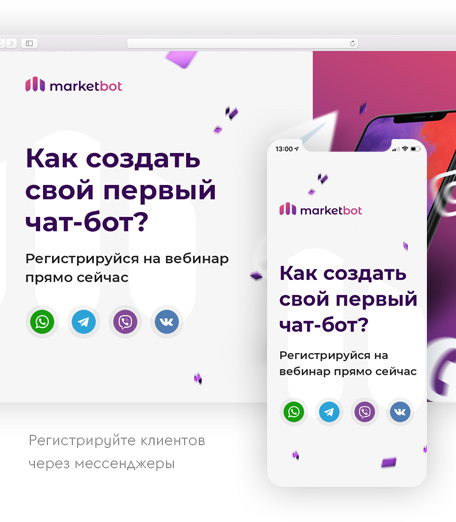
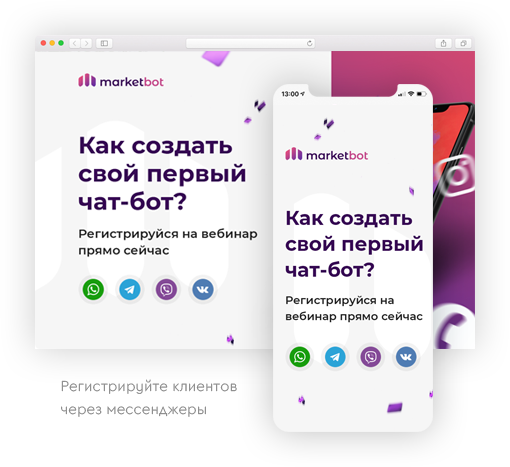
some upds

diff --git a/src/components/Associate.vue b/src/components/Associate.vue
@@ -67,10 +67,11 @@ export default {
         onMouseUpdate(e){
             if(window.innerWidth > 456){
             let x = e.pageX / window.innerWidth * 20
-            document.querySelector(".associate_background_images_1").style.left = (this.associate_background_images_1_x + x).toString() + 'px'
-            document.querySelector(".associate_background_images_2").style.left = (this.associate_background_images_2_x + x).toString() + 'px'
-            document.querySelector(".associate_background_images_3").style.left = (this.associate_background_images_3_x + x).toString() + 'px'
-            document.querySelector(".associate_background_images_4").style.left = (this.associate_background_images_4_x + x).toString() + 'px'
+            let y = e.clientY / window.innerHeight * 20
+            document.querySelector(".associate_background_images_1").style.top = (this.associate_background_images_1_x + y).toString() + 'px'
+            document.querySelector(".associate_background_images_2").style.top = (this.associate_background_images_2_x + y).toString() + 'px'
+            document.querySelector(".associate_background_images_3").style.top = (this.associate_background_images_3_x + y).toString() + 'px'
+            document.querySelector(".associate_background_images_4").style.top = (this.associate_background_images_4_x + y).toString() + 'px'
             document.querySelector(".associate_background_images_5").style.left = (this.associate_background_images_5_x + x).toString() + 'px'
             document.querySelector(".associate_background_images_6").style.left = (this.associate_background_images_6_x + x).toString() + 'px'
             document.querySelector(".associate_background_images_7").style.left = (this.associate_background_images_7_x + x).toString() + 'px'
@@ -87,10 +88,10 @@ export default {
     },
     mounted(){
         document.addEventListener('mousemove', this.onMouseUpdate)
-        this.associate_background_images_1_x = Number.parseInt((window.getComputedStyle(document.querySelector(".associate_background_images_1")).left).substring(0, (window.getComputedStyle(document.querySelector(".associate_background_images_1")).left).length - 2))
-        this.associate_background_images_2_x = Number.parseInt((window.getComputedStyle(document.querySelector(".associate_background_images_2")).left).substring(0, (window.getComputedStyle(document.querySelector(".associate_background_images_2")).left).length - 2))
-        this.associate_background_images_3_x = Number.parseInt((window.getComputedStyle(document.querySelector(".associate_background_images_3")).left).substring(0, (window.getComputedStyle(document.querySelector(".associate_background_images_3")).left).length - 2))
-        this.associate_background_images_4_x = Number.parseInt((window.getComputedStyle(document.querySelector(".associate_background_images_4")).left).substring(0, (window.getComputedStyle(document.querySelector(".associate_background_images_4")).left).length - 2))
+        this.associate_background_images_1_x = Number.parseInt((window.getComputedStyle(document.querySelector(".associate_background_images_1")).top).substring(0, (window.getComputedStyle(document.querySelector(".associate_background_images_1")).top).length - 2))
+        this.associate_background_images_2_x = Number.parseInt((window.getComputedStyle(document.querySelector(".associate_background_images_2")).top).substring(0, (window.getComputedStyle(document.querySelector(".associate_background_images_2")).top).length - 2))
+        this.associate_background_images_3_x = Number.parseInt((window.getComputedStyle(document.querySelector(".associate_background_images_3")).top).substring(0, (window.getComputedStyle(document.querySelector(".associate_background_images_3")).top).length - 2))
+        this.associate_background_images_4_x = Number.parseInt((window.getComputedStyle(document.querySelector(".associate_background_images_4")).top).substring(0, (window.getComputedStyle(document.querySelector(".associate_background_images_4")).top).length - 2))
         this.associate_background_images_5_x = Number.parseInt((window.getComputedStyle(document.querySelector(".associate_background_images_5")).left).substring(0, (window.getComputedStyle(document.querySelector(".associate_background_images_5")).left).length - 2))
         this.associate_background_images_6_x = Number.parseInt((window.getComputedStyle(document.querySelector(".associate_background_images_6")).left).substring(0, (window.getComputedStyle(document.querySelector(".associate_background_images_6")).left).length - 2))
         this.associate_background_images_7_x = Number.parseInt((window.getComputedStyle(document.querySelector(".associate_background_images_7")).left).substring(0, (window.getComputedStyle(document.querySelector(".associate_background_images_7")).left).length - 2))
@@ -307,8 +308,8 @@ export default {
             height: 70vw
             background-color: #f9f9f9
             img
-                width: 86%
-                padding-left: 7%
+                padding-left: 3.5vw
+                width: 93vw
         .associate_background_images
             position: absolute
             width: 100%

diff --git a/src/components/Execute.vue b/src/components/Execute.vue
@@ -56,9 +56,11 @@ export default {
         onMouseUpdate(e){
             if(window.innerWidth > 456){
             let x = e.pageX / window.innerWidth * 20
-            document.querySelector(".execute_background_images_1").style.left = (this.execute_background_images_1_x + x).toString() + 'px'
-            document.querySelector(".execute_background_images_2").style.left = (this.execute_background_images_2_x + x).toString() + 'px'
-            document.querySelector(".execute_background_images_3").style.left = (this.execute_background_images_3_x + x).toString() + 'px'
+            let y = e.clientY / window.innerHeight * 20
+            console.log(y)
+            document.querySelector(".execute_background_images_1").style.top = (this.execute_background_images_1_x + y).toString() + 'px'
+            document.querySelector(".execute_background_images_2").style.top = (this.execute_background_images_2_x + y).toString() + 'px'
+            document.querySelector(".execute_background_images_3").style.top = (this.execute_background_images_3_x + y).toString() + 'px'
             document.querySelector(".execute_background_images_4").style.left = (this.execute_background_images_4_x + x).toString() + 'px'
             document.querySelector(".execute_background_images_5").style.left = (this.execute_background_images_5_x + x).toString() + 'px'
             document.querySelector(".execute_background_images_6").style.left = (this.execute_background_images_6_x + x).toString() + 'px'
@@ -71,9 +73,9 @@ export default {
     },
     mounted(){
         document.addEventListener('mousemove', this.onMouseUpdate)
-        this.execute_background_images_1_x = Number.parseInt((window.getComputedStyle(document.querySelector(".execute_background_images_1")).left).substring(0, (window.getComputedStyle(document.querySelector(".execute_background_images_1")).left).length - 2))
-        this.execute_background_images_2_x = Number.parseInt((window.getComputedStyle(document.querySelector(".execute_background_images_2")).left).substring(0, (window.getComputedStyle(document.querySelector(".execute_background_images_2")).left).length - 2))
-        this.execute_background_images_3_x = Number.parseInt((window.getComputedStyle(document.querySelector(".execute_background_images_3")).left).substring(0, (window.getComputedStyle(document.querySelector(".execute_background_images_3")).left).length - 2))
+        this.execute_background_images_1_x = Number.parseInt((window.getComputedStyle(document.querySelector(".execute_background_images_1")).top).substring(0, (window.getComputedStyle(document.querySelector(".execute_background_images_1")).top).length - 2))
+        this.execute_background_images_2_x = Number.parseInt((window.getComputedStyle(document.querySelector(".execute_background_images_2")).top).substring(0, (window.getComputedStyle(document.querySelector(".execute_background_images_2")).top).length - 2))
+        this.execute_background_images_3_x = Number.parseInt((window.getComputedStyle(document.querySelector(".execute_background_images_3")).top).substring(0, (window.getComputedStyle(document.querySelector(".execute_background_images_3")).top).length - 2))
         this.execute_background_images_4_x = Number.parseInt((window.getComputedStyle(document.querySelector(".execute_background_images_4")).left).substring(0, (window.getComputedStyle(document.querySelector(".execute_background_images_4")).left).length - 2))
         this.execute_background_images_5_x = Number.parseInt((window.getComputedStyle(document.querySelector(".execute_background_images_5")).left).substring(0, (window.getComputedStyle(document.querySelector(".execute_background_images_5")).left).length - 2))
         this.execute_background_images_6_x = Number.parseInt((window.getComputedStyle(document.querySelector(".execute_background_images_6")).left).substring(0, (window.getComputedStyle(document.querySelector(".execute_background_images_6")).left).length - 2))
@@ -246,15 +248,14 @@ export default {
             width: 100%
             position: relative
             top: 80px
-            height: 140vw
+            height: 120vw
             margin-bottom: 50px
             background-color: #f9f9f9
             z-index: 1
             img
                 position: relative
                 z-index: 4
-                width: 86%
-                padding-left: 7%
+                width: 100vw
         .execute_background_images
             position: absolute
             width: 100%
@@ -367,7 +368,7 @@ export default {
             width: 100%
             position: relative
             top: 70px
-            height: 140vw
+            height: 100vw
             margin-bottom: 50px
             background-color: #f9f9f9
             z-index: 1

diff --git a/src/components/Examples.vue b/src/components/Examples.vue
@@ -29,7 +29,7 @@
 
         <div class="examples_image_phone">
             <img src="../assets/img-2 mobile.png" alt="img" id="6">
-            <img src="../assets/img-2-2.png" alt="img" id="7">
+            <img src="../assets/img-2-2 mobile.png" alt="img" id="7">
             <img src="../assets/img-2-3 mobile.png" alt="img" id="8">
             <img src="../assets/img-2-4 mobile.png" alt="img" id="9">
             <img src="../assets/img-2-5 mobile.png" alt="img" id="10">
@@ -1800,8 +1800,9 @@ export default {
         onMouseUpdate(e){
             if(window.innerWidth > 456){
             let x = e.pageX / window.innerWidth * 20
-            document.querySelector(".examples_background_images_1").style.left = (this.examples_background_images_1_x + x).toString() + 'px'
-            document.querySelector(".examples_background_images_2").style.left = (this.examples_background_images_2_x + x).toString() + 'px'
+            let y = e.clientY / window.innerHeight * 20
+            document.querySelector(".examples_background_images_1").style.top = (this.examples_background_images_1_x + y).toString() + 'px'
+            document.querySelector(".examples_background_images_2").style.top = (this.examples_background_images_2_x + y).toString() + 'px'
             document.querySelector(".examples_background_images_3").style.left = (this.examples_background_images_3_x + x).toString() + 'px'
             document.querySelector(".examples_background_images_4").style.left = (this.examples_background_images_4_x + x).toString() + 'px'
             document.querySelector(".examples_background_images_5").style.left = (this.examples_background_images_5_x + x).toString() + 'px'
@@ -1822,8 +1823,8 @@ export default {
     mounted(){
         this.b = setInterval(this.intervalMethod, 4000)
         document.addEventListener('mousemove', this.onMouseUpdate)
-        this.examples_background_images_1_x = Number.parseInt((window.getComputedStyle(document.querySelector(".examples_background_images_1")).left).substring(0, (window.getComputedStyle(document.querySelector(".examples_background_images_1")).left).length - 2))
-        this.examples_background_images_2_x = Number.parseInt((window.getComputedStyle(document.querySelector(".examples_background_images_2")).left).substring(0, (window.getComputedStyle(document.querySelector(".examples_background_images_2")).left).length - 2))
+        this.examples_background_images_1_x = Number.parseInt((window.getComputedStyle(document.querySelector(".examples_background_images_1")).top).substring(0, (window.getComputedStyle(document.querySelector(".examples_background_images_1")).top).length - 2))
+        this.examples_background_images_2_x = Number.parseInt((window.getComputedStyle(document.querySelector(".examples_background_images_2")).top).substring(0, (window.getComputedStyle(document.querySelector(".examples_background_images_2")).top).length - 2))
         this.examples_background_images_3_x = Number.parseInt((window.getComputedStyle(document.querySelector(".examples_background_images_3")).left).substring(0, (window.getComputedStyle(document.querySelector(".examples_background_images_3")).left).length - 2))
         this.examples_background_images_4_x = Number.parseInt((window.getComputedStyle(document.querySelector(".examples_background_images_4")).left).substring(0, (window.getComputedStyle(document.querySelector(".examples_background_images_4")).left).length - 2))
         this.examples_background_images_5_x = Number.parseInt((window.getComputedStyle(document.querySelector(".examples_background_images_5")).left).substring(0, (window.getComputedStyle(document.querySelector(".examples_background_images_5")).left).length - 2))
@@ -2162,8 +2163,8 @@ export default {
                 transition: 0.5s all ease
                 position: absolute
                 opacity: 0
-                width: 86%
-                padding-left: 7%
+                padding-left: 3.5vw
+                width: 93vw
                 z-index: 100
         .examples_image
             display: none
@@ -2292,7 +2293,7 @@ export default {
 
 
         .opportunities_slider
-            height: 175vw
+            height: 160vw
             width: 100%
             position: relative
             left: 0px
@@ -2445,8 +2446,8 @@ export default {
                 transition: 0.5s all ease
                 position: absolute
                 opacity: 0
-                width: 86%
-                padding-left: 7%
+                padding-left: 3.5vw
+                width: 93vw
                 z-index: 100
         .examples_image
             display: none

diff --git a/src/components/Platform.vue b/src/components/Platform.vue
@@ -68,9 +68,10 @@ export default {
         onMouseUpdate(e){
             if(window.innerWidth > 456){
             let x = e.pageX / window.innerWidth * 20
-            document.querySelector(".platform_background_images_1").style.left = (this.platform_background_images_1_x + x).toString() + 'px'
-            document.querySelector(".platform_background_images_2").style.left = (this.platform_background_images_2_x + x).toString() + 'px'
-            document.querySelector(".platform_background_images_3").style.left = (this.platform_background_images_3_x + x).toString() + 'px'
+            let y = e.clientY / window.innerHeight * 20
+            document.querySelector(".platform_background_images_1").style.top = (this.platform_background_images_1_x + y).toString() + 'px'
+            document.querySelector(".platform_background_images_2").style.top = (this.platform_background_images_2_x + y).toString() + 'px'
+            document.querySelector(".platform_background_images_3").style.top = (this.platform_background_images_3_x + y).toString() + 'px'
             document.querySelector(".platform_background_images_4").style.left = (this.platform_background_images_4_x + x).toString() + 'px'
             document.querySelector(".platform_background_images_5").style.left = (this.platform_background_images_5_x + x).toString() + 'px'
             document.querySelector(".platform_background_images_6").style.left = (this.platform_background_images_6_x + x).toString() + 'px'
@@ -86,9 +87,9 @@ export default {
     },
     mounted(){
         document.addEventListener('mousemove', this.onMouseUpdate)
-        this.platform_background_images_1_x = Number.parseInt((window.getComputedStyle(document.querySelector(".platform_background_images_1")).left).substring(0, (window.getComputedStyle(document.querySelector(".platform_background_images_1")).left).length - 2))
-        this.platform_background_images_2_x = Number.parseInt((window.getComputedStyle(document.querySelector(".platform_background_images_2")).left).substring(0, (window.getComputedStyle(document.querySelector(".platform_background_images_2")).left).length - 2))
-        this.platform_background_images_3_x = Number.parseInt((window.getComputedStyle(document.querySelector(".platform_background_images_3")).left).substring(0, (window.getComputedStyle(document.querySelector(".platform_background_images_3")).left).length - 2))
+        this.platform_background_images_1_x = Number.parseInt((window.getComputedStyle(document.querySelector(".platform_background_images_1")).top).substring(0, (window.getComputedStyle(document.querySelector(".platform_background_images_1")).top).length - 2))
+        this.platform_background_images_2_x = Number.parseInt((window.getComputedStyle(document.querySelector(".platform_background_images_2")).top).substring(0, (window.getComputedStyle(document.querySelector(".platform_background_images_2")).top).length - 2))
+        this.platform_background_images_3_x = Number.parseInt((window.getComputedStyle(document.querySelector(".platform_background_images_3")).top).substring(0, (window.getComputedStyle(document.querySelector(".platform_background_images_3")).top).length - 2))
         this.platform_background_images_4_x = Number.parseInt((window.getComputedStyle(document.querySelector(".platform_background_images_4")).left).substring(0, (window.getComputedStyle(document.querySelector(".platform_background_images_4")).left).length - 2))
         this.platform_background_images_5_x = Number.parseInt((window.getComputedStyle(document.querySelector(".platform_background_images_5")).left).substring(0, (window.getComputedStyle(document.querySelector(".platform_background_images_5")).left).length - 2))
         this.platform_background_images_6_x = Number.parseInt((window.getComputedStyle(document.querySelector(".platform_background_images_6")).left).substring(0, (window.getComputedStyle(document.querySelector(".platform_background_images_6")).left).length - 2))
@@ -353,8 +354,8 @@ $p_color: #370954
             position: relative
             padding-top: 46px
             img
-                padding-left: 7vw
-                width: 86vw
+                padding-left: 3.5vw
+                width: 93vw
 
                 
 

diff --git a/src/components/Team.vue b/src/components/Team.vue
@@ -149,8 +149,9 @@ export default {
         onMouseUpdate(e){
             if(window.innerWidth > 456){
             let x = e.pageX / window.innerWidth * 20
-            document.querySelector(".team_background_images_1").style.left = (this.team_background_images_1_x + x).toString() + 'px'
-            document.querySelector(".team_background_images_2").style.left = (this.team_background_images_2_x + x - 200).toString() + 'px'
+            let y = e.clientY / window.innerHeight * 20
+            document.querySelector(".team_background_images_1").style.top = (this.team_background_images_1_x + y).toString() + 'px'
+            document.querySelector(".team_background_images_2").style.top = (this.team_background_images_2_x + y).toString() + 'px'
             document.querySelector(".team_background_images_3").style.left = (this.team_background_images_3_x + x).toString() + 'px'
             document.querySelector(".team_background_images_4").style.left = (this.team_background_images_4_x + x).toString() + 'px'
             document.querySelector(".team_background_images_5").style.left = (this.team_background_images_5_x + x).toString() + 'px'
@@ -160,8 +161,8 @@ export default {
     },
     mounted() {
         document.addEventListener('mousemove', this.onMouseUpdate)
-        this.team_background_images_1_x = Number.parseInt((window.getComputedStyle(document.querySelector(".team_background_images_1")).left).substring(0, (window.getComputedStyle(document.querySelector(".team_background_images_1")).left).length - 2))
-        this.team_background_images_2_x = Number.parseInt((window.getComputedStyle(document.querySelector(".team_background_images_2")).left).substring(0, (window.getComputedStyle(document.querySelector(".team_background_images_2")).left).length - 2))
+        this.team_background_images_1_x = Number.parseInt((window.getComputedStyle(document.querySelector(".team_background_images_1")).top).substring(0, (window.getComputedStyle(document.querySelector(".team_background_images_1")).top).length - 2))
+        this.team_background_images_2_x = Number.parseInt((window.getComputedStyle(document.querySelector(".team_background_images_2")).top).substring(0, (window.getComputedStyle(document.querySelector(".team_background_images_2")).top).length - 2))
         this.team_background_images_3_x = Number.parseInt((window.getComputedStyle(document.querySelector(".team_background_images_3")).left).substring(0, (window.getComputedStyle(document.querySelector(".team_background_images_3")).left).length - 2))
         this.team_background_images_4_x = Number.parseInt((window.getComputedStyle(document.querySelector(".team_background_images_4")).left).substring(0, (window.getComputedStyle(document.querySelector(".team_background_images_4")).left).length - 2))
         this.team_background_images_5_x = Number.parseInt((window.getComputedStyle(document.querySelector(".team_background_images_5")).left).substring(0, (window.getComputedStyle(document.querySelector(".team_background_images_5")).left).length - 2))

diff --git a/src/components/Setting.vue b/src/components/Setting.vue
@@ -318,7 +318,8 @@ export default {
         onMouseUpdate(e){
             if(window.innerWidth > 456){
             let x = e.pageX / window.innerWidth * 20
-            document.querySelector(".setting_background_images_1").style.left = (this.setting_background_images_1_x + x).toString() + 'px'
+            let y = e.clientY / window.innerHeight * 20
+            document.querySelector(".setting_background_images_1").style.top = (this.setting_background_images_1_x + y).toString() + 'px'
             document.querySelector(".setting_background_images_2").style.left = (this.setting_background_images_2_x + x).toString() + 'px'
             document.querySelector(".setting_background_images_3").style.left = (this.setting_background_images_3_x + x).toString() + 'px'
             document.querySelector(".setting_background_images_4").style.left = (this.setting_background_images_4_x + x).toString() + 'px'
@@ -472,7 +473,7 @@ export default {
         }
 
         document.addEventListener('mousemove', this.onMouseUpdate)
-        this.setting_background_images_1_x = Number.parseInt((window.getComputedStyle(document.querySelector(".setting_background_images_1")).left).substring(0, (window.getComputedStyle(document.querySelector(".setting_background_images_1")).left).length - 2))
+        this.setting_background_images_1_x = Number.parseInt((window.getComputedStyle(document.querySelector(".setting_background_images_1")).top).substring(0, (window.getComputedStyle(document.querySelector(".setting_background_images_1")).top).length - 2))
         this.setting_background_images_2_x = Number.parseInt((window.getComputedStyle(document.querySelector(".setting_background_images_2")).left).substring(0, (window.getComputedStyle(document.querySelector(".setting_background_images_2")).left).length - 2))
         this.setting_background_images_3_x = Number.parseInt((window.getComputedStyle(document.querySelector(".setting_background_images_3")).left).substring(0, (window.getComputedStyle(document.querySelector(".setting_background_images_3")).left).length - 2))
         this.setting_background_images_4_x = Number.parseInt((window.getComputedStyle(document.querySelector(".setting_background_images_4")).left).substring(0, (window.getComputedStyle(document.querySelector(".setting_background_images_4")).left).length - 2))

diff --git a/src/components/Footer.vue b/src/components/Footer.vue
@@ -6,11 +6,10 @@
 
         <div class="footer_logos">
             <div class="footer_logos_flex">
-                <img src="../assets/back/whatsapp.png" alt="whatsapp">
-                <img src="../assets/back/facebook.png" alt="facebook">
-                <img src="../assets/back/insta.png" alt="insta">
-                <img src="../assets/back/twitter.png" alt="twitter">
-                <img src="../assets/back/telega.png" alt="telega">
+                <a href="https://marketbot.biz/935" target="_blank"><img src="../assets/back/whatsapp.png" alt="whatsapp"></a>
+                <a href="#"><img src="../assets/back/facebook.png" alt="facebook"></a>
+                <a href="#"><img src="../assets/back/insta.png" alt="insta"></a>
+                <a href="#"><img src="../assets/back/telega.png" alt="telega"></a>
             </div>
         </div>
 
@@ -76,6 +75,7 @@ export default {
             .footer_logos_flex
                 display: flex
                 justify-content: space-around
+
         p
             display: inline-block
             font-size: 16px

diff --git a/src/components/Create.vue b/src/components/Create.vue
@@ -339,8 +339,8 @@ export default {
             top: 100px
             z-index: 100
             img
-                width: 86%
-                padding-left: 7%
+                padding-left: 3.5vw
+                width: 93vw
                 position: relative
                 z-index: 100
                                 

diff --git a/src/components/Mood.vue b/src/components/Mood.vue
@@ -339,8 +339,8 @@ export default {
             top: 100px
             z-index: 110
             img
-                width: 86%
-                padding-left: 7%
+                width: 100vw
+                padding-left: 0
                 z-index: 110
                 position: absolute
         .mood_background_images
